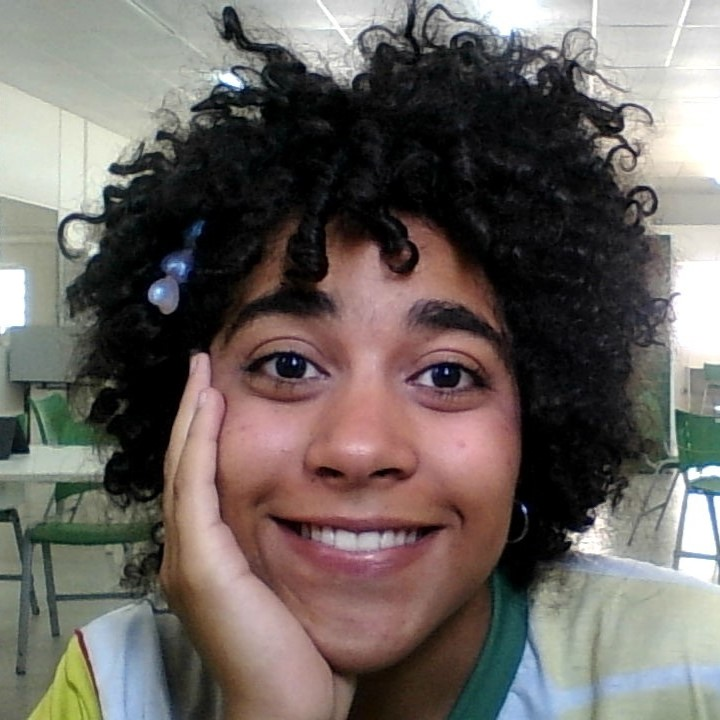
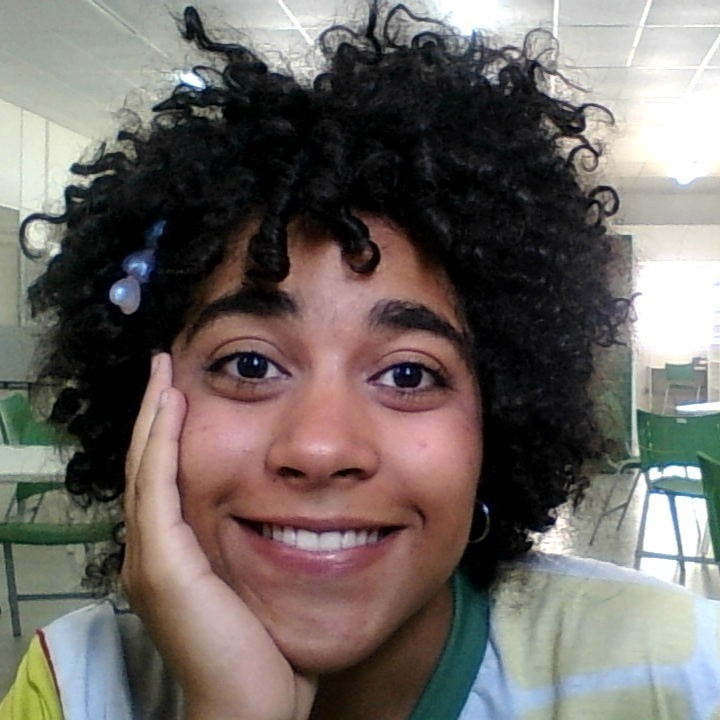
Add files via upload

diff --git a/index.html b/index.html
@@ -7,60 +7,55 @@
 </head>
 <body>
 
+
   <div class="container">
+
 
     <div class="coluna esquerda">
       <img src="foto.jpg" class="foto">
 
-      <h1>Thais Myller</h1>
+    
+      <h1>Informações Pessoais</h1>
 
-      <h2>Informações Pessoais</h2>
 
       <h3>Contato</h3>
       <p>Thais Myller Felix da Silva</p>
       <p>Telefone: (81) 9 9997-7591</p>
       <p>Email: tmfs1@discente.ifpe.edu.br</p>
 
+
       <h3>Formação</h3>
-      <p>Tecnologia em Desenvolvimento de Sistemas – UTFPR</p>
-      <p>Início: 2020</p>
-      <p>Conclusão: 2023</p>
-      <p>
-        Durante o curso, Thais desenvolveu projetos de sistemas web<br>
-        participou de grupos de estudo e fez monitoria em lógica de programação.
+      <p>Tecnologia em Desenvolvimento de Sistemas<br>
+      <p>(UTFR)<br>
+      <p>Início: 2020<br>
+      <p>Conclusão: 2023<br>
+      <p>Durante o curso, Thais desenvolveu<br>
+      <p>projetos de sistemas web<br>
+      <p>participou de grupos de estudos<br>
+      <p>e fez monitoria em lógica de programação.<br>
       </p>
 
-      <h3>Habilidades</h3>
-      <p>Desenvolvimento Web (HTML, CSS, JavaScript)</p>
-      <p>Programação Back-end (Java, Python)</p>
-      <p>Banco de Dados (MySQL, PostgreSQL)</p>
-      <p>Versionamento (Git/GitHub)</p>
-      <p>Resolução de problemas</p>
-      <p>Trabalho em equipe</p>
-      <p>Comunicação clara</p>
 
     </div>
-
+   
     <div class="coluna direita">
+
 
       <h2>Sobre Mim</h2>
       <p>
         Meu nome é Thais Myller Felix da Silva<br>
-        tenho 23 anos e sou formada em Desenvolvimento de Sistemas<br>
-        Gosto de tecnologia desde cedo<br> 
-        e me desenvolvi através de estudos, projetos práticos<br>
-        e participação em grupos acadêmicos<br>
-        Sou dedicada, curiosa e busco sempre aprender mais<br>
+        tenho 23 anos e sou formada em<br
+        Desenvolvimento de Sistemas<br>
+        Gosto de tecnologia desde cedo<br>
+        e me desenvolvi através de estudos,<br>projetos práticos<br>
+        e participação em grupos acadêmicos.<br>
+        Sou dedicada, curiosa e busco sempre<br>aprender mais<br>
         para crescer na área de desenvolvimento.
       </p>
 
+
       <h2>Experiências</h2>
 
-      <h3>Desenvolvedora Júnior – TecnoCode Solutions (2023 – Atual)</h3>
-      <p>
-        Atuação no desenvolvimento de interfaces e APIs simples<br>
-        manutenção de sistemas internos, testes e correção de bugs<br>
-      </p>
 
       <h3>Estágio em Desenvolvimento – SoftLine Sistemas (2022 – 2023)</h3>
       <p>
@@ -68,16 +63,31 @@
         internos e participação em reuniões de planejamento.
       </p>
 
+
       <h3>Projeto Acadêmico – Sistema de Gerenciamento Escolar (2021)</h3>
       <p>
         Desenvolvimento em equipe utilizando CRUD, modelagem de banco<br>
         de dados e implementação em MySQL.
       </p>
 
+    <h3>Habilidades</h3>
+      <p>-Desenvolvimento Web (HTML, CSS, JavaScript)</p>
+      <p>-Banco de Dados (MySQL, PostgreSQL)</p>
+      <p>-Resolução de problemas</p>
+      <p>-Trabalho em equipe</p>
+      <p>-Comunicação clara</p>
+      
+      
     </div>
 
+
   </div>
+
 
 </body>
 
 
+
+
+
+</html>

diff --git a/style.css b/style.css
@@ -1,14 +1,42 @@
 body {
-    background-color: #2b2a3b;
-    color: white;
     font-family: 'Times New Roman', sans-serif;
+    color: black;
+    margin: 0;
+   
 }
+
 
 .foto {
     width: 120px;
     height: 120px;
     border-radius: 50%;
     object-fit: cover;
-    border: 3px solid #f5f5dc;
-    margin-bottom: 10px;
+    border: 3px solid white;
+    margin-bottom: 20px;
+    display: block;
+    margin: auto;
+}
+
+.container {
+    display: flex;
+    margin: 0 auto;
+    max-width: 800px;
+    box-shadow: 0px 0px 10px rgba(0,0,0,0,2)
+    border-radius: 20px;
+    overflow: hidden;
+}
+
+.coluna.esquerda {
+    width: 60%;
+    background-color: Gray;
+    padding: 30px;
+    color: black;
+  
+}
+
+.coluna.direita {
+    width: 65%;
+    background-color: beige;
+    padding: 30px;
+    
 }
